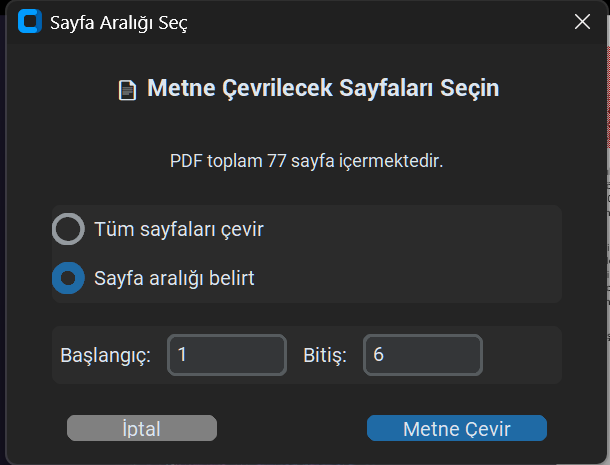
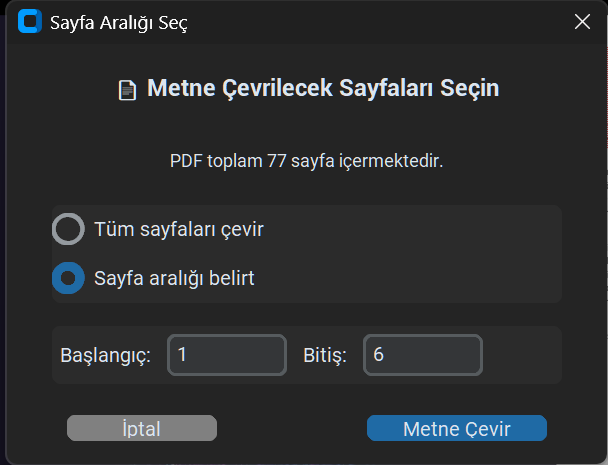
Embedded save Functionality

diff --git a/pdf_view_file_ops.py b/pdf_view_file_ops.py
@@ -101,38 +101,271 @@ class FileOperationsMixin:
         threading.Thread(target=load_pdf_thread, daemon=True).start()
     
     def save_pdf(self):
-        """PDF'yi kaydet (annotation'lar JSON sidecar'a ayrı kaydedilir)"""
+        """PDF'yi kaydet - kaydetme yöntemini kullanıcıya sorar"""
         if not self.pdf_document:
             messagebox.showwarning("Uyarı", "Kaydetmek için bir PDF dosyası yükleyin.")
             return
-        
+
+        # Annotation varsa kaydetme yöntemi sor
+        has_annotations = (
+            hasattr(self, 'annotation_manager') and
+            bool(self.annotation_manager.annotations)
+        )
+
+        if has_annotations:
+            save_mode = self._ask_save_mode()
+            if save_mode is None:
+                return  # Kullanıcı iptal etti
+        else:
+            save_mode = "json"  # Annotation yoksa varsayılan
+
         file_path = filedialog.asksaveasfilename(
             title="PDF'yi Kaydet",
             defaultextension=".pdf",
             filetypes=[("PDF dosyaları", "*.pdf")]
         )
-        
-        if file_path:
-            try:
-                # PDF'yi kaydet (annotation'lar fitz'e gömülmeden)
-                self.pdf_document.save(file_path, garbage=4, deflate=True)
-                
-                # Annotation'ları JSON sidecar'a kaydet (aynı klasör, aynı isim + .ann.json)
-                if hasattr(self, 'annotation_manager') and self.annotation_manager.annotations:
-                    base = os.path.splitext(file_path)[0]
-                    ann_path = base + '.ann.json'
-                    anns_to_save = [
-                        {k: v for k, v in ann.items() if k != 'canvas_id'}
-                        for ann in self.annotation_manager.annotations
-                    ]
-                    with open(ann_path, 'w', encoding='utf-8') as f:
-                        json.dump(anns_to_save, f, indent=2, ensure_ascii=False)
-                    # print(f"DEBUG: {len(anns_to_save)} annotation JSON sidecar'a kaydedildi: {os.path.basename(ann_path)}")
-                
+
+        if not file_path:
+            return
+
+        if save_mode == "json":
+            self._save_with_json_sidecar(file_path)
+        else:
+            self._save_with_embedded_annotations(file_path)
+
+    def _ask_save_mode(self):
+        """Kaydetme yöntemi seçme diyaloğunu göster. 'json', 'embed' veya None döndürür."""
+        from pdf_view_utils import center_window
+        import tkinter as tk
+
+        result = {"mode": None}
+
+        dialog = ctk.CTkToplevel(self.root)
+        dialog.title("Annotation Kaydetme Yöntemi")
+        dialog.geometry("520x300")
+        center_window(dialog, 520, 300)
+        dialog.transient(self.root)
+        dialog.grab_set()
+        dialog.resizable(False, False)
+
+        # Başlık
+        ctk.CTkLabel(
+            dialog,
+            text="Annotation'lar nasıl kaydedilsin?",
+            font=ctk.CTkFont(size=15, weight="bold")
+        ).pack(pady=(20, 10))
+
+        # Seçenek tutucu
+        mode_var = tk.StringVar(value="json")
+
+        # Seçenek 1
+        frame1 = ctk.CTkFrame(dialog, fg_color="transparent")
+        frame1.pack(fill="x", padx=30, pady=4)
+        ctk.CTkRadioButton(
+            frame1,
+            text="Ayrı dosyada sakla  (.ann.json sidecar)",
+            variable=mode_var,
+            value="json",
+            font=ctk.CTkFont(size=13)
+        ).pack(anchor="w")
+        ctk.CTkLabel(
+            frame1,
+            text="  Annotation'lar PDF'in yanında ayrı bir .ann.json dosyasında tutulur.\n"
+                 "  Bu program bu dosyadan okuyarak annotation'ları gösterir.",
+            font=ctk.CTkFont(size=11),
+            text_color="gray70",
+            justify="left"
+        ).pack(anchor="w", padx=22)
+
+        # Seçenek 2
+        frame2 = ctk.CTkFrame(dialog, fg_color="transparent")
+        frame2.pack(fill="x", padx=30, pady=4)
+        ctk.CTkRadioButton(
+            frame2,
+            text="PDF içine göm  (diğer programlarda da görünsün)",
+            variable=mode_var,
+            value="embed",
+            font=ctk.CTkFont(size=13)
+        ).pack(anchor="w")
+        ctk.CTkLabel(
+            frame2,
+            text="  Annotation'lar standart PDF formatında doğrudan dosyaya işlenir.\n"
+                 "  Adobe Reader, Foxit, tarayıcılar gibi tüm PDF okuyucularda görünür.",
+            font=ctk.CTkFont(size=11),
+            text_color="gray70",
+            justify="left"
+        ).pack(anchor="w", padx=22)
+
+        # Butonlar
+        btn_frame = ctk.CTkFrame(dialog, fg_color="transparent")
+        btn_frame.pack(pady=16)
+
+        def on_ok():
+            result["mode"] = mode_var.get()
+            dialog.destroy()
+
+        def on_cancel():
+            result["mode"] = None
+            dialog.destroy()
+
+        ctk.CTkButton(btn_frame, text="Kaydet", width=110, command=on_ok).pack(side="left", padx=10)
+        ctk.CTkButton(btn_frame, text="İptal", width=110, fg_color="gray40",
+                      hover_color="gray30", command=on_cancel).pack(side="left", padx=10)
+
+        dialog.wait_window()
+        return result["mode"]
+
+    def _save_with_json_sidecar(self, file_path):
+        """PDF'yi kaydet; annotation'ları .ann.json sidecar dosyasına yaz."""
+        try:
+            self.pdf_document.save(file_path, garbage=4, deflate=True)
+            print(f"DEBUG [save_pdf/json]: PDF kaydedildi → {os.path.basename(file_path)}")
+
+            if hasattr(self, 'annotation_manager') and self.annotation_manager.annotations:
+                base = os.path.splitext(file_path)[0]
+                ann_path = base + '.ann.json'
+                anns_to_save = [
+                    {k: v for k, v in ann.items() if k != 'canvas_id'}
+                    for ann in self.annotation_manager.annotations
+                ]
+                with open(ann_path, 'w', encoding='utf-8') as f:
+                    json.dump(anns_to_save, f, indent=2, ensure_ascii=False)
+                print(f"DEBUG [save_pdf/json]: {len(anns_to_save)} annotation sidecar'a yazıldı → {os.path.basename(ann_path)}")
+                messagebox.showinfo(
+                    "Başarılı",
+                    f"PDF kaydedildi:\n{file_path}\n\n"
+                    f"Annotation'lar ({len(anns_to_save)} adet) ayrı dosyaya kaydedildi:\n"
+                    f"{os.path.basename(ann_path)}"
+                )
+            else:
                 messagebox.showinfo("Başarılı", f"PDF başarıyla kaydedildi:\n{file_path}")
-                
-            except Exception as e:
-                messagebox.showerror("Hata", f"PDF kaydedilirken hata oluştu:\n{str(e)}")
+
+        except Exception as e:
+            print(f"DEBUG [save_pdf/json]: HATA → {e}")
+            messagebox.showerror("Hata", f"PDF kaydedilirken hata oluştu:\n{str(e)}")
+
+    def _save_with_embedded_annotations(self, file_path):
+        """Annotation'ları PDF'e standart PDF annotation olarak göm ve kaydet."""
+        import fitz
+        try:
+            # Çalışmak için PDF'in bir kopyasını aç (orijinal doc değişmesin)
+            import tempfile, shutil
+            tmp_path = file_path + ".tmp_embed.pdf"
+            self.pdf_document.save(tmp_path, garbage=4, deflate=True)
+            embed_doc = fitz.open(tmp_path)
+            print(f"DEBUG [save_pdf/embed]: Geçici PDF oluşturuldu → {os.path.basename(tmp_path)}")
+
+            annotations = self.annotation_manager.annotations if hasattr(self, 'annotation_manager') else []
+            embedded_count = 0
+
+            for ann in annotations:
+                try:
+                    page_num = ann.get('page', 0)
+                    if page_num < 0 or page_num >= len(embed_doc):
+                        continue
+
+                    page = embed_doc[page_num]
+                    ann_type = ann.get('type', '')
+
+                    if ann_type == 'highlight':
+                        coords = ann.get('coordinates', {})
+                        if not coords:
+                            continue
+                        # Canvas koordinatlarını PDF koordinatlarına çevir (zoom'u geri al)
+                        zoom = getattr(self, 'zoom_level', 1.0)
+                        x1 = coords.get('x1', 0) / zoom
+                        y1 = coords.get('y1', 0) / zoom
+                        x2 = coords.get('x2', 0) / zoom
+                        y2 = coords.get('y2', 0) / zoom
+                        rect = fitz.Rect(x1, y1, x2, y2)
+                        color_hex = ann.get('color', '#FFFF00')
+                        rgb = self._hex_to_rgb_float(color_hex)
+                        # Dikdörtgen annotation kullan: Highlight tipi metin vurgulama içindir
+                        # ve quad tabanlı olduğundan kenarlar kayabilir. Square/Rect tipi
+                        # gerçek dikdörtgen verir ve tüm PDF okuyucularda doğru görünür.
+                        annot = page.add_rect_annot(rect)
+                        # Doldurma rengi = kenarlık rengi (görünmez kenarlık)
+                        annot.set_colors(fill=rgb, stroke=rgb)
+                        # Yarı saydamlık: dış PDF okuyucularda orijinal görünüme yakın
+                        annot.set_opacity(0.4)
+                        annot.update()
+                        embedded_count += 1
+                        print(f"DEBUG [save_pdf/embed]: Highlight (Rect) eklendi → sayfa {page_num+1}, rect={rect}, renk={color_hex}")
+
+                    elif ann_type == 'note':
+                        pos = ann.get('position', {'x': 18, 'y': 18})
+                        point = fitz.Point(pos['x'], pos['y'])
+                        text = ann.get('text', '')
+                        annot = page.add_text_annot(point, text, icon="Note")
+                        annot.set_info(title="Not")
+                        annot.update()
+                        embedded_count += 1
+                        print(f"DEBUG [save_pdf/embed]: Not eklendi → sayfa {page_num+1}, nokta={point}, metin='{text[:30]}'")
+
+                    elif ann_type == 'bookmark':
+                        pos = ann.get('position', {'x': 18, 'y': 18})
+                        point = fitz.Point(pos['x'], pos['y'])
+                        text = ann.get('text', 'İşaret')
+                        annot = page.add_text_annot(point, text, icon="Star")
+                        annot.set_info(title="İşaret")
+                        annot.update()
+                        embedded_count += 1
+                        print(f"DEBUG [save_pdf/embed]: İşaret eklendi → sayfa {page_num+1}, nokta={point}")
+
+                    elif ann_type == 'link':
+                        pos = ann.get('position', {'x': 18, 'y': 18})
+                        url = ann.get('url', '')
+                        text = ann.get('text', '')
+                        content = f"{text}\nURL: {url}" if url else text
+                        point = fitz.Point(pos['x'], pos['y'])
+                        annot = page.add_text_annot(point, content, icon="Key")
+                        annot.set_info(title="Bağlantı")
+                        annot.update()
+                        embedded_count += 1
+                        print(f"DEBUG [save_pdf/embed]: Bağlantı eklendi → sayfa {page_num+1}, nokta={point}, url='{url[:40]}'")
+
+                except Exception as ann_err:
+                    print(f"DEBUG [save_pdf/embed]: Annotation gömme hatası ({ann.get('type','?')}): {ann_err}")
+
+            embed_doc.save(file_path, garbage=4, deflate=True)
+            embed_doc.close()
+            os.remove(tmp_path)
+            print(f"DEBUG [save_pdf/embed]: {embedded_count} annotation gömüldü → {os.path.basename(file_path)}")
+
+            # Eğer aynı isimli .ann.json sidecar varsa sil:
+            # PDF içine gömdük; yoksa yeniden açıldığında çift çizim oluşur.
+            base = os.path.splitext(file_path)[0]
+            ann_sidecar = base + '.ann.json'
+            if os.path.exists(ann_sidecar):
+                os.remove(ann_sidecar)
+                print(f"DEBUG [save_pdf/embed]: Eski sidecar JSON silindi (çift çizim önlendi) → {os.path.basename(ann_sidecar)}")
+            messagebox.showinfo(
+                "Başarılı",
+                f"PDF başarıyla kaydedildi:\n{file_path}\n\n"
+                f"{embedded_count} annotation PDF içine gömüldü.\n"
+                f"Diğer PDF okuyucularda da görünecektir."
+            )
+
+        except Exception as e:
+            print(f"DEBUG [save_pdf/embed]: GENEL HATA → {e}")
+            # Geçici dosyayı temizle
+            try:
+                if os.path.exists(tmp_path):
+                    os.remove(tmp_path)
+            except Exception:
+                pass
+            messagebox.showerror("Hata", f"PDF kaydedilirken hata oluştu:\n{str(e)}")
+
+    @staticmethod
+    def _hex_to_rgb_float(hex_color):
+        """'#RRGGBB' formatındaki rengi (r, g, b) float tuple'ına çevir (0.0-1.0)."""
+        hex_color = hex_color.lstrip('#')
+        if len(hex_color) == 6:
+            r = int(hex_color[0:2], 16) / 255.0
+            g = int(hex_color[2:4], 16) / 255.0
+            b = int(hex_color[4:6], 16) / 255.0
+            return (r, g, b)
+        return (1.0, 1.0, 0.0)  # varsayılan sarı
     
     def load_settings(self):
         """Ayarları yükle"""

diff --git a/pdf_view_display.py b/pdf_view_display.py
@@ -239,48 +239,57 @@ class DisplayMixin:
                 try:
                     annot_type = annot.type[1]  # Annotation tipi
                     rect = annot.rect
-                    
-                    if annot_type in ['Highlight', 'Square']:  # Sadece ana annotation tipleri
+
+                    if annot_type in ['Highlight', 'Square']:
                         # PDF koordinatlarını Canvas koordinatlarına çevir
                         x1, y1 = pdf_to_canvas_coords(rect.x0, rect.y0)
                         x2, y2 = pdf_to_canvas_coords(rect.x1, rect.y1)
-                        
-                        # Rengi al
+
+                        # Rengi al — önce fill, yoksa stroke (Highlight için stroke'ta tutulur)
                         colors = annot.colors
-                        if colors and 'fill' in colors and colors['fill']:
-                            fill_color = colors['fill']
-                            # RGB'den hex'e çevir
-                            hex_color = f"#{int(fill_color[0]*255):02x}{int(fill_color[1]*255):02x}{int(fill_color[2]*255):02x}"
-                        elif colors and 'stroke' in colors and colors['stroke']:
-                            stroke_color = colors['stroke']
-                            # RGB'den hex'e çevir
-                            hex_color = f"#{int(stroke_color[0]*255):02x}{int(stroke_color[1]*255):02x}{int(stroke_color[2]*255):02x}"
+                        hex_color = "#FFFF00"  # varsayılan
+                        if colors:
+                            fill = colors.get('fill')
+                            stroke = colors.get('stroke')
+                            if fill:
+                                hex_color = f"#{int(fill[0]*255):02x}{int(fill[1]*255):02x}{int(fill[2]*255):02x}"
+                            elif stroke:
+                                hex_color = f"#{int(stroke[0]*255):02x}{int(stroke[1]*255):02x}{int(stroke[2]*255):02x}"
+
+                        # Tüm vurgulama tipleri aynı şekilde çizilir:
+                        # stipple="gray50" → yarı saydamlık, outline="" → kenarlık yok
+                        # Bu, show_highlights() ile çizilen orijinal görünümle birebir eşleşir.
+                        self.canvas.create_rectangle(
+                            x1, y1, x2, y2,
+                            fill=hex_color,
+                            stipple="gray50",
+                            outline="",
+                            tags="pdf_annotation"
+                        )
+                        print(f"DEBUG [load_pdf_annots]: {annot_type} yüklendi → "
+                              f"canvas({x1:.1f},{y1:.1f},{x2:.1f},{y2:.1f}) renk:{hex_color}")
+
+                    elif annot_type == 'Text':
+                        # Not / İşaret / Bağlantı (Text annotation) — ikon olarak göster
+                        x1, y1 = pdf_to_canvas_coords(rect.x0, rect.y0)
+                        title = annot.info.get('title', '')
+                        content = annot.info.get('content', '')
+                        icon = annot.info.get('icon', 'Note')
+                        if icon == 'Star':
+                            symbol, color = "⭐", "orange"
+                        elif icon == 'Key':
+                            symbol, color = "🔗", "#0099ff"
                         else:
-                            hex_color = "#FFFF00"  # Varsayılan sarı
-                        
-                        # Canvas'ta göster
-                        if annot_type in ['Square', 'Polygon']:
-                            # Dikdörtgen olarak göster (fill + outline)
-                            self.canvas.create_rectangle(
-                                x1, y1, x2, y2,
-                                fill=hex_color,
-                                outline=hex_color,
-                                width=2,
-                                stipple="gray50",
-                                tags="pdf_annotation"
-                            )
-                        else:
-                            # Highlight olarak göster
-                            self.canvas.create_rectangle(
-                                x1, y1, x2, y2,
-                                fill=hex_color,
-                                stipple="gray50",
-                                outline="",
-                                tags="pdf_annotation"
-                            )
-                        
-                        # print(f"PDF Annotation yüklendi: {annot_type} at ({x1:.1f}, {y1:.1f}, {x2:.1f}, {y2:.1f}) renk: {hex_color}")
-                        
+                            symbol, color = "📝", "green"
+                        self.canvas.create_text(
+                            x1, y1,
+                            text=symbol,
+                            font=("Arial", 16),
+                            fill=color,
+                            tags="pdf_annotation"
+                        )
+                        print(f"DEBUG [load_pdf_annots]: Text({icon}) yüklendi → canvas({x1:.1f},{y1:.1f})")
+
                 except Exception as e:
                     print(f"Annotation işleme hatası: {e}")
                     